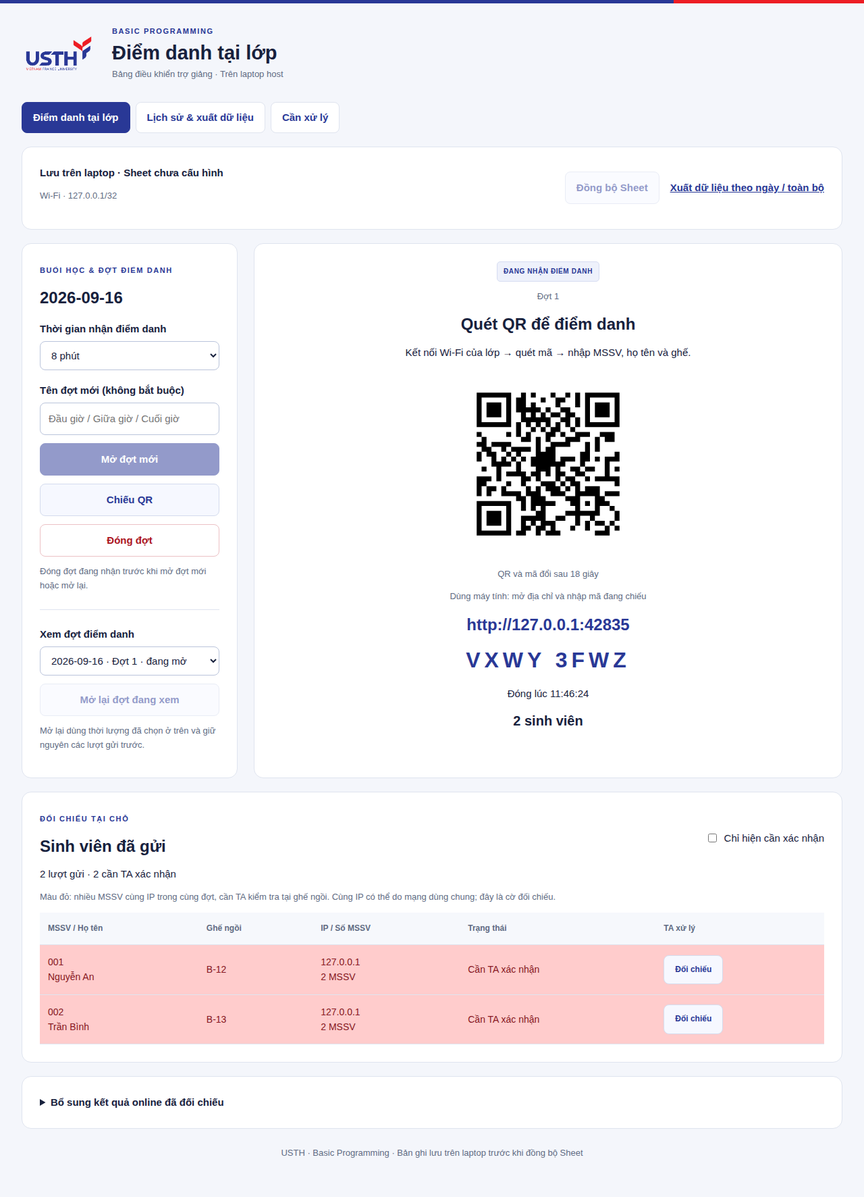
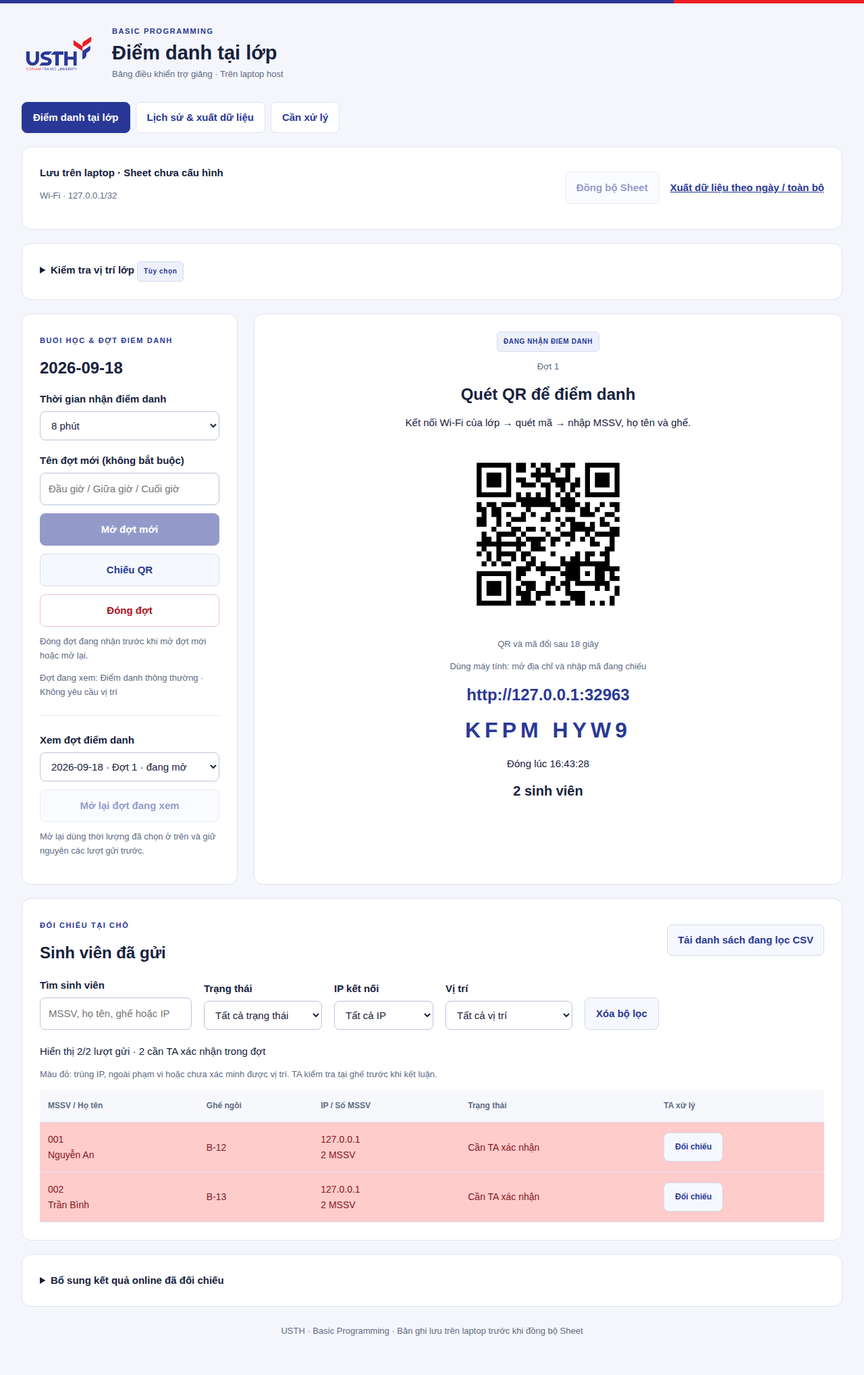
Keep location optional and add TA filters with matching CSV exports

diff --git a/web/lan-public/admin.html b/web/lan-public/admin.html
@@ -4,15 +4,15 @@
 <nav class="screen-nav controls" aria-label="Quản lý điểm danh"><a href="#attendance" aria-current="page">Điểm danh tại lớp</a><a href="#history">Lịch sử &amp; xuất dữ liệu</a><a href="#issues">Cần xử lý</a></nav>
 <div class="controls card status-bar"><div><strong id="sync-state">Đang kết nối…</strong><p id="network" class="muted"></p></div><div class="actions"><button id="sync" class="secondary">Đồng bộ Sheet</button><a href="#history">Xuất dữ liệu theo ngày / toàn bộ</a></div></div>
 <div id="screen-attendance" data-screen="attendance">
-<details class="card controls"><summary>Kiểm tra vị trí lớp</summary><p>Đặt tâm tại vị trí laptop hoặc tọa độ lớp đã xác nhận. Áp dụng cho đợt mới; mở lại đợt giữ nguyên thiết lập của đợt đó. Ngoài phạm vi hoặc sai số lớn sẽ được đánh dấu để TA đối chiếu.</p><label class="checkbox"><input type="checkbox" id="location-enabled"> Bật đối chiếu vị trí</label><div class="filters"><div><label for="location-latitude">Vĩ độ</label><input id="location-latitude" type="number" step="any" min="-90" max="90"></div><div><label for="location-longitude">Kinh độ</label><input id="location-longitude" type="number" step="any" min="-180" max="180"></div><div><label for="location-accuracy">Sai số tâm (m)</label><input id="location-accuracy" type="number" min="0" step="any" value="0"></div><div><label for="location-radius">Bán kính cho phép (m)</label><input id="location-radius" type="number" min="20" max="2000" step="1" value="100"></div></div><div class="actions"><button id="location-host" type="button" class="secondary">Lấy vị trí laptop</button><button id="location-save" type="button">Lưu vị trí cho hôm nay</button></div><p id="location-config-status" role="status"></p><p class="muted">Nếu vị trí laptop sai số lớn, nhập tọa độ lớp đã đối chiếu trên bản đồ; chỉ nhập sai số 0 khi tâm đã được xác nhận. Sinh viên lấy vị trí qua một tab HTTPS riêng. <a id="location-helper-link" target="_blank" rel="noopener">Trang hỗ trợ vị trí</a> cần hoạt động trước khi bật tính năng. GPS không tự chứng minh có mặt hoặc gian lận.</p></details>
-<div class="layout"><section class="card controls"><span class="eyebrow">BUỔI HỌC &amp; ĐỢT ĐIỂM DANH</span><h2 id="today">Buổi học hôm nay</h2><label for="minutes">Thời gian nhận điểm danh</label><select id="minutes"><option value="5">5 phút</option><option value="8" selected>8 phút</option><option value="10">10 phút</option><option value="15">15 phút</option><option value="30">30 phút</option></select><label for="round-label">Tên đợt mới (không bắt buộc)</label><input id="round-label" maxlength="60" placeholder="Đầu giờ / Giữa giờ / Cuối giờ"><button id="open">Mở QR điểm danh</button><button id="project" class="secondary" hidden>Chiếu QR</button><button id="close" class="danger" disabled>Đóng đợt</button><p id="round-help" class="muted"></p><hr><label for="session">Xem đợt điểm danh</label><select id="session"></select><button id="reopen" class="secondary" hidden>Mở lại đợt đang xem</button><p class="muted">Mở lại dùng thời lượng đã chọn ở trên và giữ nguyên các lượt gửi trước.</p></section>
+<details class="card controls"><summary><span>Kiểm tra vị trí lớp</span> <span class="badge">Tùy chọn</span></summary><p>Mặc định sinh viên chỉ nhập MSSV, họ tên và ghế. Khi TA bật và lưu tùy chọn này, sinh viên mới có thêm tab xin vị trí. Đặt tâm tại vị trí laptop hoặc tọa độ lớp đã xác nhận. Áp dụng cho đợt mới; mở lại đợt giữ nguyên thiết lập của đợt đó. Ngoài phạm vi hoặc sai số lớn sẽ được đánh dấu để TA đối chiếu.</p><label class="checkbox"><input type="checkbox" id="location-enabled"> Bật đối chiếu vị trí</label><div class="filters"><div><label for="location-latitude">Vĩ độ</label><input id="location-latitude" type="number" step="any" min="-90" max="90"></div><div><label for="location-longitude">Kinh độ</label><input id="location-longitude" type="number" step="any" min="-180" max="180"></div><div><label for="location-accuracy">Sai số tâm (m)</label><input id="location-accuracy" type="number" min="0" step="any" value="0"></div><div><label for="location-radius">Bán kính cho phép (m)</label><input id="location-radius" type="number" min="20" max="2000" step="1" value="100"></div></div><div class="actions"><button id="location-host" type="button" class="secondary">Lấy vị trí laptop</button><button id="location-save" type="button">Lưu vị trí cho hôm nay</button></div><p id="location-config-status" role="status"></p><p class="muted">Nếu vị trí laptop sai số lớn, nhập tọa độ lớp đã đối chiếu trên bản đồ; chỉ nhập sai số 0 khi tâm đã được xác nhận. Sinh viên lấy vị trí qua một tab HTTPS riêng. <a id="location-helper-link" target="_blank" rel="noopener">Trang hỗ trợ vị trí</a> cần hoạt động trước khi bật tính năng. GPS không tự chứng minh có mặt hoặc gian lận.</p></details>
+<div class="layout"><section class="card controls"><span class="eyebrow">BUỔI HỌC &amp; ĐỢT ĐIỂM DANH</span><h2 id="today">Buổi học hôm nay</h2><label for="minutes">Thời gian nhận điểm danh</label><select id="minutes"><option value="5">5 phút</option><option value="8" selected>8 phút</option><option value="10">10 phút</option><option value="15">15 phút</option><option value="30">30 phút</option></select><label for="round-label">Tên đợt mới (không bắt buộc)</label><input id="round-label" maxlength="60" placeholder="Đầu giờ / Giữa giờ / Cuối giờ"><button id="open">Mở QR điểm danh</button><button id="project" class="secondary" hidden>Chiếu QR</button><button id="close" class="danger" disabled>Đóng đợt</button><p id="round-help" class="muted"></p><p id="location-mode" class="muted" role="status"></p><hr><label for="session">Xem đợt điểm danh</label><select id="session"></select><button id="reopen" class="secondary" hidden>Mở lại đợt đang xem</button><p class="muted">Mở lại dùng thời lượng đã chọn ở trên và giữ nguyên các lượt gửi trước.</p></section>
 <section class="card projector"><span class="badge" id="session-state">CHƯA MỞ PHIÊN</span><p id="round-title" class="muted"></p><h2>Quét QR để điểm danh</h2><p>Kết nối Wi-Fi của lớp → quét mã → nhập MSSV, họ tên và ghế.</p><div id="qr"></div><p id="qr-countdown" class="muted" aria-live="off"></p><p class="muted">Dùng máy tính: mở địa chỉ và nhập mã đang chiếu</p><strong id="student-url" class="student-url"></strong><strong id="attendance-code" class="attendance-code"></strong><p id="session-end"></p><strong id="count" class="count">0 sinh viên</strong></section></div>
-<section class="card controls"><div class="section-top"><div><span class="eyebrow">ĐỐI CHIẾU TẠI CHỖ</span><h2>Sinh viên đã gửi</h2></div><label class="checkbox"><input type="checkbox" id="only-pending"> Chỉ hiện cần xác nhận</label></div><p id="review-summary"></p><p class="muted">Màu đỏ: trùng IP, ngoài phạm vi hoặc chưa xác minh được vị trí. TA kiểm tra tại ghế trước khi kết luận.</p><div class="table-wrap"><table><thead><tr><th>MSSV / Họ tên</th><th>Ghế ngồi</th><th>IP / Số MSSV</th><th>Trạng thái</th><th>TA xử lý</th></tr></thead><tbody id="entries"></tbody></table></div></section>
+<section class="card controls"><div class="section-top"><div><span class="eyebrow">ĐỐI CHIẾU TẠI CHỖ</span><h2>Sinh viên đã gửi</h2></div><a id="attendance-export" class="button-link secondary" aria-disabled="true">Tải danh sách đang lọc CSV</a></div><div id="attendance-filters" class="filters"></div><p id="review-summary"></p><p class="muted">Màu đỏ: trùng IP, ngoài phạm vi hoặc chưa xác minh được vị trí. TA kiểm tra tại ghế trước khi kết luận.</p><div class="table-wrap"><table><thead><tr><th>MSSV / Họ tên</th><th>Ghế ngồi</th><th>IP / Số MSSV</th><th>Trạng thái</th><th>TA xử lý</th></tr></thead><tbody id="entries"></tbody></table></div></section>
 <details class="card controls"><summary>Bổ sung kết quả online đã đối chiếu</summary><p>Nhập danh sách lớp có email trước khi bổ sung MSSV online. Phần offline không yêu cầu danh sách này.</p><label for="roster">CSV danh sách lớp · MSSV,Họ tên,Email trường</label><input type="file" id="roster" accept=".csv"><button id="import-roster" class="secondary">Nhập danh sách lớp</button><label for="online-date">Ngày học</label><input type="date" id="online-date"><label for="online-list">MSSV online · mỗi dòng một MSSV</label><textarea id="online-list" rows="4"></textarea><label for="online-evidence">Nguồn đối chiếu</label><input id="online-evidence" placeholder="Link kết quả Google Form, buổi học…"><button id="import-online" class="secondary">Bổ sung online</button></details>
 </div>
 <section id="screen-history" class="card controls" data-screen="history" hidden><span class="eyebrow">LƯU TRỮ THEO NGÀY HỌC</span><h2>Lịch sử &amp; xuất dữ liệu</h2><p>Chọn một ngày để xem và xuất riêng, hoặc chọn tất cả các ngày để lấy toàn bộ dữ liệu.</p>
 <div class="filters"><div><label for="history-date">Ngày học</label><select id="history-date"><option value="">Tất cả các ngày</option></select></div><div class="actions"><a id="history-summary-export" class="button-link" href="/api/export.csv">Tải bảng tổng CSV</a><a id="history-detail-export" class="button-link secondary" href="/api/detail.csv">Tải chi tiết offline CSV</a></div></div>
-<p id="history-summary" role="status"></p><p class="muted">Bảng dưới hiển thị lượt gửi offline. Bảng tổng CSV có cả kết quả online đã bổ sung. File theo ngày chỉ chứa kết quả của ngày đã chọn.</p>
+<div id="history-filters" class="filters"></div><p id="history-summary" role="status"></p><p class="muted">Bảng dưới hiển thị lượt gửi offline. Bảng tổng CSV có cả kết quả online đã bổ sung. CSV chi tiết áp dụng các bộ lọc đang chọn. Bảng tổng CSV giữ toàn bộ kết quả của ngày đã chọn để đối chiếu số đợt tham gia.</p>
 <div class="table-wrap"><table><thead><tr><th>Ngày / Đợt</th><th>MSSV / Họ tên</th><th>Ghế</th><th>IP / Số MSSV</th><th>Trạng thái</th><th>Ghi chú TA</th><th>TA xử lý</th></tr></thead><tbody id="history-entries"></tbody></table></div>
 <hr><h2>Google Sheet cho sinh viên tra cứu</h2><p>Chọn bảng kết quả do TA sửa trực tiếp. App đọc bảng này mỗi phút để sinh viên tra cứu bằng MSSV.</p>
 <p id="lookup-status" role="status"></p><p><a id="lookup-link" target="_blank" rel="noopener">Mở trang tra cứu sinh viên</a></p>
@@ -22,7 +22,7 @@
 <p class="muted">Sheet cần cột MSSV và các cột ngày YYYY-MM-DD hoặc DD/MM/YYYY; cũng nhận bảng MSSV,Ngày,Kết quả. Chỉ ngày và ô kết quả được hiển thị cho sinh viên. Nếu link đã có quyền xem, chỉ cần lưu nguồn. Với Sheet riêng tư, kết nối tài khoản dịch vụ theo <a href="https://github.com/namle24/bp-attendance/blob/main/docs/STUDENT-LOOKUP.vi.md" target="_blank" rel="noopener">hướng dẫn kết nối</a>.</p></section>
 <section id="screen-issues" class="card controls" data-screen="issues" hidden><span class="eyebrow">THEO DÕI CÁC TRƯỜNG HỢP CẦN XỬ LÝ</span><h2>Điểm danh cần xử lý</h2><p><strong>Chờ đối chiếu:</strong> bản ghi trùng IP hoặc vị trí cần kiểm tra. <strong>Không hợp lệ:</strong> TA đã đối chiếu và không xác nhận điểm danh.</p>
 <div class="filters"><div><label for="issues-date">Ngày học</label><select id="issues-date"><option value="">Tất cả các ngày</option></select></div><div><label for="issues-status">Trạng thái</label><select id="issues-status"><option value="ALL">Chờ đối chiếu + không hợp lệ</option><option value="PENDING">Chờ TA đối chiếu</option><option value="REJECTED">TA xác nhận không hợp lệ</option></select></div><a id="issues-export" class="button-link" href="/api/issues.csv">Tải danh sách CSV</a></div>
-<div class="review-totals"><span id="issues-pending" class="badge"></span><span id="issues-rejected" class="badge rejected-badge"></span></div><p id="issues-summary" role="status"></p>
+<div id="issues-filters" class="filters"></div><div class="review-totals"><span id="issues-pending" class="badge"></span><span id="issues-rejected" class="badge rejected-badge"></span></div><p id="issues-summary" role="status"></p>
 <div class="table-wrap"><table><thead><tr><th>Ngày / Đợt</th><th>MSSV / Họ tên</th><th>Ghế</th><th>IP / Số MSSV</th><th>Trạng thái</th><th>Lý do / ghi chú</th><th>TA xử lý</th></tr></thead><tbody id="issues-entries"></tbody></table></div>
 <p class="muted">Trùng IP và vị trí là thông tin hỗ trợ đối chiếu. Mỗi bản ghi được xử lý riêng theo buổi học; xác nhận có mặt sẽ đưa bản ghi ra khỏi danh sách này, nhưng vẫn giữ trong lịch sử.</p></section>
 <footer>USTH · Basic Programming · Bản ghi lưu trên laptop trước khi đồng bộ Sheet</footer></main>

diff --git a/web/lan-public/admin.js b/web/lan-public/admin.js
@@ -2,7 +2,41 @@
 const $=id=>document.getElementById(id);
 let dashboard,selected='',entries=[],reviewing,busy=false,refreshQueued=false,loadedURL='',screen='attendance';
 let currentQr,qrBusy=false,qrAt=0;
-let projectorWindow;
+let projectorWindow,locationSettings={enabled:false},filterTimer;
+function buildFilters(prefix){
+  const container=$(prefix+'-filters');
+  function field(key,label,options){
+    const wrapper=document.createElement('div'),title=document.createElement('label'),input=document.createElement(options?'select':'input');
+    input.id=prefix+'-'+key;title.htmlFor=input.id;title.textContent=label;
+    if(options)for(const [value,text] of options){const option=document.createElement('option');option.value=value;option.textContent=text;input.append(option);}
+    else{input.type='search';input.maxLength=120;input.placeholder='MSSV, họ tên, ghế hoặc IP';}
+    input.addEventListener(options?'change':'input',()=>{clearTimeout(filterTimer);markLoading();if(options)requestRefresh();else filterTimer=setTimeout(requestRefresh,250);});
+    wrapper.append(title,input);container.append(wrapper);
+  }
+  field('q','Tìm sinh viên');
+  if(prefix!=='attendance')field('round','Đợt điểm danh',[['','Tất cả các đợt']]);
+  if(prefix!=='issues')field('status','Trạng thái',[['ALL','Tất cả trạng thái'],['RECORDED','Đã ghi nhận'],['PENDING','Cần TA xác nhận'],['CONFIRMED','TA đã xác nhận'],['REJECTED','TA không xác nhận']]);
+  field('ip','IP kết nối',[['ALL','Tất cả IP'],['DUPLICATE','Trùng IP'],['UNIQUE','Không trùng IP']]);
+  field('location','Vị trí',[['ALL','Tất cả vị trí'],['OFF','Không kiểm tra'],['INSIDE','Trong phạm vi'],['OUTSIDE','Ngoài phạm vi'],['UNVERIFIED','Chưa xác minh được']]);
+  const reset=document.createElement('button');reset.type='button';reset.className='secondary';reset.textContent='Xóa bộ lọc';reset.id=prefix+'-reset';
+  reset.addEventListener('click',()=>{clearTimeout(filterTimer);for(const input of container.querySelectorAll('input,select'))input.value=input.tagName==='SELECT'&&input.id!==prefix+'-round'?'ALL':'';if(prefix==='issues')$('issues-status').value='ALL';requestRefresh();});container.append(reset);
+}
+function filterQuery(prefix,base={}){
+  const query=new URLSearchParams(base);
+  for(const key of ['q','round','status','ip','location']){const input=$(prefix+'-'+key);if(input&&input.value&&input.value!=='ALL')query.set(key,input.value);}
+  return query.toString();
+}
+function fillRounds(prefix){
+  const input=$(prefix+'-round'),date=$(prefix+'-date').value,rows=dashboard.sessions.filter(s=>s.mode==='OFFLINE'&&(!date||s.date===date));
+  const key=rows.map(s=>s.id).join(',');if(input.dataset.rounds===key)return;
+  const previous=input.value;input.replaceChildren();
+  for(const row of [null,...rows]){const option=document.createElement('option');option.value=row?.id||'';option.textContent=row?row.date+' · '+roundTitle(row):'Tất cả các đợt';input.append(option);}
+  input.value=rows.some(s=>s.id===previous)?previous:'';input.dataset.rounds=key;
+}
+function locationEdited(){
+  if($('location-enabled').checked!==locationSettings.enabled)return true;
+  return locationSettings.enabled&&['latitude','longitude','accuracy','radius'].some(key=>$('location-'+key).value===''||Number($('location-'+key).value)!==locationSettings[key]);
+}
 function drawQr(){
   const remaining=currentQr?currentQr.expiresAt-currentQr.serverTime-(performance.now()-qrAt):0;
   if(remaining<=0){$('qr').replaceChildren();$('attendance-code').textContent='';$('qr-countdown').textContent=currentQr?'Đang đổi QR…':'';loadedURL='';return;}
@@ -53,9 +87,9 @@ function renderTable(id,rows,dated=false){
   }
   if(!rows.length){const tr=document.createElement('tr'),td=document.createElement('td');td.colSpan=dated?7:5;td.textContent='Không có bản ghi phù hợp.';tr.append(td);table.append(tr);}
 }
-function renderEntries(){
-  $('review-summary').textContent=`${entries.length} lượt gửi · ${entries.filter(e=>e.status==='PENDING').length} cần TA xác nhận`;
-  renderTable('entries',entries.filter(e=>!$('only-pending').checked||e.status==='PENDING'));
+function renderEntries(total,pending){
+  $('review-summary').textContent=`Hiển thị ${entries.length}/${total} lượt gửi · ${pending} cần TA xác nhận trong đợt`;
+  renderTable('entries',entries);
 }
 function fillDates(id){
   const select=$(id),dates=[...new Set(dashboard.sessions.map(s=>s.date))].sort().reverse(),key=dates.join(',');
@@ -67,25 +101,27 @@ function downloadLink(id,url){
   const link=$(id);if(url){link.href=url;link.removeAttribute('aria-disabled');}else{link.removeAttribute('href');link.setAttribute('aria-disabled','true');}
 }
 function markLoading(){
+  if(screen==='attendance')downloadLink('attendance-export');
   if(screen==='history'){for(const id of ['history-summary-export','history-detail-export'])downloadLink(id);$('history-summary').textContent='Đang tải dữ liệu…';}
   if(screen==='issues'){downloadLink('issues-export');$('issues-summary').textContent='Đang tải danh sách…';}
 }
 async function refreshReports(){
   fillDates('history-date');fillDates('issues-date');
+  fillRounds('history');fillRounds('issues');
   if(screen==='history'){
-    const date=$('history-date').value,query=new URLSearchParams({date}).toString(),data=await api('/api/history?'+query);
-    if(screen!=='history'||date!==$('history-date').value)return;
+    const date=$('history-date').value,query=filterQuery('history',{date}),data=await api('/api/history?'+query);
+    if(screen!=='history'||query!==filterQuery('history',{date:$('history-date').value}))return;
     renderTable('history-entries',data.entries,true);
-    $('history-summary').textContent=(date||'Tất cả các ngày')+' · '+data.entries.length+' lượt gửi offline · '+new Set(data.entries.map(e=>e.student_id)).size+' MSSV';
-    downloadLink('history-summary-export','/api/export.csv?'+query);downloadLink('history-detail-export','/api/detail.csv?'+query);
+    $('history-summary').textContent=(date||'Tất cả các ngày')+' · Hiển thị '+data.entries.length+'/'+data.total+' lượt gửi offline · '+new Set(data.entries.map(e=>e.student_id)).size+' MSSV';
+    downloadLink('history-summary-export','/api/export.csv?'+new URLSearchParams({date}));downloadLink('history-detail-export','/api/detail.csv?'+query);
     const lookup=await api('/api/lookup-source');
     if(!$('lookup-sheet').dataset.loaded){$('lookup-sheet').value=lookup.source?'https://docs.google.com/spreadsheets/d/'+lookup.source.spreadsheetId+'/edit'+(lookup.source.gid!==undefined?'#gid='+lookup.source.gid:''):'';$('lookup-tab').value=lookup.source?.tab||'';$('lookup-sheet').dataset.loaded='1';}
     $('lookup-link').href=dashboard.url+'/history';
     $('lookup-status').textContent=!lookup.configured?'Chưa chọn Google Sheet kết quả.':lookup.error?lookup.error:lookup.refreshing?'Đang đọc Google Sheet…':lookup.updatedAt?'Đã đọc Sheet lúc '+BPClient.time(lookup.updatedAt)+(lookup.stale?' · Chưa lấy được bản mới.':''):'Đang chờ lần đọc Sheet đầu tiên.';
     $('lookup-status').className=lookup.error||lookup.stale?'notice error':'muted';$('lookup-refresh').disabled=!lookup.configured||lookup.refreshing;
   }else if(screen==='issues'){
-    const date=$('issues-date').value,status=$('issues-status').value,query=new URLSearchParams({date,status}).toString(),data=await api('/api/issues?'+query);
-    if(screen!=='issues'||date!==$('issues-date').value||status!==$('issues-status').value)return;
+    const date=$('issues-date').value,query=filterQuery('issues',{date,status:$('issues-status').value}),data=await api('/api/issues?'+query);
+    if(screen!=='issues'||query!==filterQuery('issues',{date:$('issues-date').value,status:$('issues-status').value}))return;
     renderTable('issues-entries',data.entries,true);
     $('issues-pending').textContent=data.counts.pending+' chờ đối chiếu';$('issues-rejected').textContent=data.counts.rejected+' không hợp lệ';
     $('issues-summary').textContent=(date||'Tất cả các ngày')+' · '+data.entries.length+' bản ghi đang hiển thị · '+new Set(data.entries.map(e=>e.student_id)).size+' MSSV';
@@ -109,17 +145,23 @@ async function refresh(){
   $('sync-state').textContent=!sync.enabled?'Lưu trên laptop · Sheet chưa cấu hình':sync.error?'Sheet chưa đồng bộ được · dữ liệu đã lưu trên laptop':sync.pending?'Đang chờ đồng bộ Sheet':'Sheet đã đồng bộ';
   $('network').textContent=dashboard.network+' · '+dashboard.cidrs.join(', ');
   const position=await api('/api/location-config');
+  locationSettings=position.settings;
   if(!$('location-enabled').dataset.loaded){$('location-enabled').checked=position.settings.enabled;for(const key of ['latitude','longitude','accuracy','radius'])if(position.settings[key]!==undefined)$('location-'+key).value=position.settings[key];$('location-enabled').dataset.loaded='1';}
   $('location-helper-link').href=position.helperUrl;
   $('location-config-status').textContent=!position.settings.enabled?'Đang tắt kiểm tra vị trí.':position.settings.date!==dashboard.today?'Cần xác nhận lại vị trí lớp cho ngày hôm nay.':'Vị trí lớp cho đợt mới đã lưu · Bán kính '+position.settings.radius+' m.';
+  $('location-mode').textContent=shown?'Đợt đang xem: '+(shown.location?.enabled?'Có kiểm tra vị trí · '+shown.location.radius+' m':'Điểm danh thông thường · Không yêu cầu vị trí'):'Đợt mới: '+(position.settings.enabled?'Có kiểm tra vị trí':'Điểm danh thông thường · Không yêu cầu vị trí');
   for(const key of ['enabled','latitude','longitude','accuracy','radius','host','save'])$('location-'+key).disabled=!!live;
-  if(screen==='attendance'){entries=selected?(await api('/api/entries?session='+encodeURIComponent(selected))).entries:[];renderEntries();}
+  if(screen==='attendance'){
+    const query=filterQuery('attendance',{round:selected}),data=selected?await api('/api/entries?session='+encodeURIComponent(selected)+'&'+query):{entries:[],total:0,pending:0};
+    if(screen==='attendance'&&query===filterQuery('attendance',{round:selected})){entries=data.entries;renderEntries(data.total,data.pending);downloadLink('attendance-export',selected?'/api/detail.csv?'+query:null);}
+  }
   await refreshReports();
 }
 async function action(fn){if(busy)return;busy=true;try{await fn();await refresh();}catch(error){notice(error.message,true);}finally{busy=false;if(refreshQueued){refreshQueued=false;requestRefresh();}}}
 function requestRefresh(){markLoading();if(busy){refreshQueued=true;return;}void action(async()=>{});}
 $('open').addEventListener('click',()=>{
   if(busy)return;
+  if(locationEdited()){notice('Lưu tùy chọn vị trí trước khi mở đợt mới.',true);$('location-enabled').closest('details').open=true;return;}
   // Open during the click gesture, before any await, so browsers allow the tab.
   const opened=project();
   void action(async()=>{const result=await api('/api/sessions',{minutes:Number($('minutes').value),label:$('round-label').value.trim()});selected=result.session.id;$('round-label').value='';if(opened)notice('Đã mở '+roundTitle(result.session)+'. Sinh viên quét QR mới để điểm danh.');});
@@ -130,7 +172,7 @@ $('reopen').addEventListener('click',()=>{
 });
 $('close').addEventListener('click',()=>action(async()=>{await api('/api/sessions/'+selected+'/close',{});notice('Đã đóng đợt điểm danh.');}));
 $('project').addEventListener('click',project);
-$('session').addEventListener('change',()=>{selected=$('session').value;requestRefresh();});$('only-pending').addEventListener('change',renderEntries);
+$('session').addEventListener('change',()=>{selected=$('session').value;requestRefresh();});
 for(const id of ['history-date','issues-date','issues-status'])$(id).addEventListener('change',requestRefresh);
 window.addEventListener('hashchange',()=>{showScreen();requestRefresh();});
 $('sync').addEventListener('click',()=>action(async()=>{await api('/api/sync',{});notice('Đã yêu cầu đồng bộ Sheet.');}));
@@ -149,5 +191,6 @@ $('cancel-review').addEventListener('click',()=>$('review-dialog').close());
 $('review-form').addEventListener('submit',async event=>{event.preventDefault();$('save-review').disabled=true;try{await api('/api/entries/'+reviewing.id+'/review',{review:$('review-result').value,note:$('review-note').value,peers:reviewing.peers});$('review-dialog').close();await refresh();notice('Đã lưu kết quả đối chiếu của TA.');}catch(error){$('review-error').textContent=error.message;}finally{$('save-review').disabled=false;}});
 $('import-roster').addEventListener('click',()=>action(async()=>{const file=$('roster').files[0];if(!file)throw Error('Chọn file CSV danh sách lớp.');const result=await api('/api/roster',{csv:await file.text()});notice('Đã nhập '+result.count+' sinh viên.');}));
 $('import-online').addEventListener('click',()=>action(async()=>{const result=await api('/api/online',{date:$('online-date').value,list:$('online-list').value,evidence:$('online-evidence').value});notice('Đã bổ sung '+result.count+' kết quả online.');}));
+for(const prefix of ['attendance','history','issues'])buildFilters(prefix);
 showScreen();requestRefresh();setInterval(()=>{if(!busy&&!$('review-dialog').open)requestRefresh();},10000);
 setInterval(()=>{drawQr();void refreshQr();},1000);

diff --git a/docs/TA-FILTERS.vi.md b/docs/TA-FILTERS.vi.md
@@ -1,0 +1,38 @@
+# Điểm danh thông thường và bộ lọc TA
+
+Sinh viên quét QR hoặc nhập mã đang chiếu, điền **MSSV, họ tên, ghế ngồi** rồi gửi. Mặc định không xin quyền vị trí và không mở trang HTTPS. Không cần GPS để dùng luồng thông thường.
+
+## Vị trí là tùy chọn của TA
+
+Trong **Kiểm tra vị trí lớp · Tùy chọn**, TA bật đối chiếu, đặt tâm/bán kính và bấm lưu trước khi mở đợt mới. Khi đó sinh viên mới thấy nút **Lấy vị trí**, mở tab HTTPS để xin quyền. Muốn dùng luồng thông thường, đóng đợt đang mở, bỏ chọn đối chiếu vị trí, lưu rồi mở đợt mới.
+
+Dòng trạng thái cạnh điều khiển phiên cho biết **đợt đang xem** có kiểm tra vị trí hay không. Mở lại đợt giữ nguyên thiết lập và kết quả của đợt đó. App nhắc lưu nếu TA đã thay đổi tùy chọn vị trí trước khi bấm mở đợt mới. Xem [hướng dẫn vị trí](LOCATION-CHECK.vi.md).
+
+## Lọc và xuất danh sách
+
+Cả ba màn **Điểm danh tại lớp**, **Lịch sử & xuất dữ liệu**, **Cần xử lý** có:
+
+- Tìm MSSV, họ tên, ghế hoặc IP. Tìm tên có hoặc không có dấu đều được; nhiều từ khóa phải cùng khớp một bản ghi.
+- Trạng thái ghi nhận hoặc quyết định TA. Màn Cần xử lý chỉ gồm đang chờ và TA không xác nhận.
+- IP trùng / không trùng trong cùng đợt.
+- Vị trí: không kiểm tra, trong phạm vi, ngoài phạm vi hoặc chưa xác minh được. Mục cuối gồm sai số lớn, thiếu vị trí, lỗi quyền, quá hạn và lỗi thiết bị.
+- Ngày/đợt: chọn đợt trên màn điểm danh; chọn ngày và đợt trong lịch sử hoặc danh sách cần xử lý.
+
+Bấm **Xóa bộ lọc** để bỏ tìm kiếm và các tiêu chí trong màn đang xem; ngày đang chọn được giữ nguyên. App giữ bộ lọc trong lúc tự cập nhật danh sách.
+
+**CSV danh sách đang lọc**, **CSV chi tiết offline** và **CSV cần xử lý** áp dụng đúng các tiêu chí đang chọn. **Bảng tổng CSV** giữ toàn bộ kết quả của ngày đã chọn, gồm online đã bổ sung, để TA xem đủ số đợt đã tham gia.
+
+![Lọc danh sách TA](ta-filters.png)
+
+Ảnh dùng dữ liệu kiểm thử. Lọc riêng một sinh viên vẫn hiển thị số MSSV dùng chung IP của cả đợt.
+
+## Cơ chế chống gửi trùng
+
+- Một MSSV chỉ có một bản ghi trong một đợt, kể cả đổi trình duyệt, mở tab mới hoặc quét lại QR.
+- Gửi lại sau mất phản hồi lấy lại biên nhận đã lưu; không tạo thêm dòng.
+- Mở lại đợt giữ nguyên quy tắc chống trùng. Mở đợt mới trong cùng buổi cho phép gửi thêm một lượt vào đợt mới.
+- Nhiều MSSV dùng chung IP trong cùng đợt được đánh dấu đỏ để TA xác minh. Bộ lọc không làm thay đổi nhóm IP hay quyết định của TA. Trùng IP không tự chứng minh gian lận vì nhiều người có thể dùng chung đường mạng.
+
+## Phạm vi tương thích
+
+Luồng sinh viên được kiểm tra trên Chromium, Firefox và WebKit qua HTTP LAN, với GPS không khả dụng, script vị trí không tải được, storage bị chặn và mất phản hồi sau khi máy chủ đã lưu. Những kiểm tra này dùng dữ liệu riêng, không thay cho thử thiết bị thật hoặc mạng trường. Wi-Fi cần cho phép điện thoại truy cập laptop; bộ lọc hay tùy chọn GPS không thay đổi điều kiện mạng đó.

diff --git a/docs/WEB-VALIDATION.md b/docs/WEB-VALIDATION.md
@@ -1,4 +1,10 @@
-# Validation scope · LAN attendance 0.8
+# Validation scope · LAN attendance 0.8.1
+
+Version 0.8.1 on 2026-09-18 keeps ordinary attendance independent of GPS. The existing **81 tests** passed, together with the new filter integration test (**82 total**). The full Chromium UI scenario verifies searching/filtering and CSV downloads. The location UI scenario verifies that unsaved opt-in settings cannot be silently ignored, turning location off restores the simple form, and historical round policies remain unchanged.
+
+`scripts/test-browser-compat.cjs` passed on **Chromium, Firefox and WebKit**, using actual private-IP HTTP and temporary databases. It disables geolocation, blocks the optional location script, removes fetch/AbortController/URLSearchParams and denies browser storage. Each engine checks committed submissions with lost responses, retries without duplicate records, another tab/QR attempting the same MSSV, same-IP flags, duplicate rejection after reopening and a valid new-round submission. No student request reaches an external HTTPS helper in normal mode. WebKit here is an automated Linux build, not a test of every Safari/iPhone version; network isolation remains outside browser compatibility.
+
+Filter API/CSV tests cover accent-insensitive name search, student IDs, seat/IP search, date/round, review state and location evidence. Peer counts are calculated before filtering; narrowing to one MSSV does not change the duplicate-IP warning or any saved data. Malformed filter values are rejected. Aggregate CSV keeps complete daily round counts; detail/case CSV follows the visible filters. See [TA guide and screenshot](TA-FILTERS.vi.md).
 
 Version 0.8 on 2026-09-18 adds optional per-round location evidence. **81/81 tests passed**, plus the existing full browser scenario and a new location scenario. The latter uses a real private-IP HTTP parent (verified insecure context), an intercepted copy of the actual static helper at its HTTPS URL (verified secure context), simulated geolocation permission/coordinates, origin/source/state validation, in-range/outside/uncertain/denied/missing results, and TA review. Screenshots contain synthetic data. This is not yet a physical iPhone/Android test of the published helper.
 

diff --git a/README.md b/README.md
@@ -8,7 +8,9 @@ Kết quả được lưu vào SQLite trước khi trả thông báo thành côn
 
 **Tra cứu cho sinh viên:** mở **Tra cứu MSSV** để xem kết quả từ tab Google Sheet do TA sửa trực tiếp. TA dán link đúng tab tại **Lịch sử & xuất dữ liệu**; app đọc mỗi phút, hiển thị thời điểm đọc và cảnh báo nếu dữ liệu chưa cập nhật. Xem [hướng dẫn kết nối và sử dụng](docs/STUDENT-LOOKUP.vi.md).
 
-**Đối chiếu vị trí tùy chọn:** TA đặt tâm lớp và bán kính cho đợt mới; ngoài phạm vi hoặc chưa xác minh được sẽ cần TA đối chiếu. App vẫn host trên laptop; một trang HTTPS tĩnh hỗ trợ xin quyền vị trí trên điện thoại và cần được xuất bản một lần. Mặc định tính năng tắt. Xem [hướng dẫn vị trí và giới hạn](docs/LOCATION-CHECK.vi.md).
+**Đối chiếu vị trí tùy chọn:** mặc định sinh viên chỉ nhập MSSV, họ tên và ghế; không cần GPS hay trang HTTPS. Khi TA bật và lưu tùy chọn cho đợt mới, sinh viên mới có thêm nút mở tab xin vị trí. App vẫn host trên laptop. Xem [hướng dẫn vị trí và giới hạn](docs/LOCATION-CHECK.vi.md).
+
+**Bộ lọc TA:** tìm MSSV/họ tên/ghế/IP, lọc trạng thái, trùng IP, vị trí và ngày/đợt; tải CSV chi tiết đúng danh sách đã lọc. Cảnh báo trùng IP và giới hạn một MSSV mỗi đợt được giữ nguyên. Xem [hướng dẫn sử dụng bộ lọc](docs/TA-FILTERS.vi.md).
 
 **Nhiều MSSV cùng IP trong một đợt:** tất cả bản ghi liên quan được tô đỏ trên bảng TA, tab chi tiết và ô ngày tương ứng của bảng tổng. TA kiểm tra người/thẻ tại ghế ngồi rồi lưu xác nhận trên app. Cùng IP chỉ là cờ đối chiếu; các thiết bị chung NAT có thể cùng IP và một người có thể dùng nhiều IP.
 

diff --git a/docs/WINDOWS.vi.md b/docs/WINDOWS.vi.md
@@ -123,4 +123,8 @@ Trong **Lịch sử & xuất dữ liệu**, dán link Google Sheet của tab TA 
 
 ## 9. Đối chiếu vị trí lớp (tùy chọn)
 
-Trong **Kiểm tra vị trí lớp**, đặt tâm, sai số và bán kính rồi lưu cho hôm nay trước khi mở đợt mới. Sinh viên bấm **Lấy vị trí**, cho phép trong tab HTTPS rồi quay lại gửi; ngoài phạm vi hoặc chưa xác minh được sẽ cần TA đối chiếu. Mặc định tính năng tắt; trang hỗ trợ HTTPS cần được người quản lý repo xuất bản một lần. Máy host vẫn chạy bằng `npm start`, không cần mua tên miền/cài chứng chỉ. Xem [hướng dẫn đầy đủ](LOCATION-CHECK.vi.md).
+Mặc định sinh viên quét QR, nhập MSSV, họ tên và ghế rồi gửi; không xin quyền GPS. Chỉ khi TA bật và lưu **Kiểm tra vị trí lớp**, sinh viên mới có nút mở tab HTTPS để lấy vị trí. Để tắt cho đợt mới, đóng đợt đang mở, bỏ chọn đối chiếu vị trí, lưu rồi mở đợt mới. Mở lại đợt giữ nguyên thiết lập cũ. Máy host vẫn chạy bằng `npm start`, không cần mua tên miền/cài chứng chỉ. Xem [hướng dẫn đầy đủ](LOCATION-CHECK.vi.md).
+
+## 10. Tìm và lọc danh sách
+
+Bản 0.8.1 thêm tìm MSSV/họ tên/ghế/IP và lọc theo trạng thái, trùng IP, vị trí, ngày/đợt trên trang TA. CSV danh sách/chi tiết/cần xử lý áp dụng bộ lọc đang chọn; bảng tổng CSV giữ đủ kết quả của ngày. Xem [hướng dẫn có ảnh](TA-FILTERS.vi.md).
